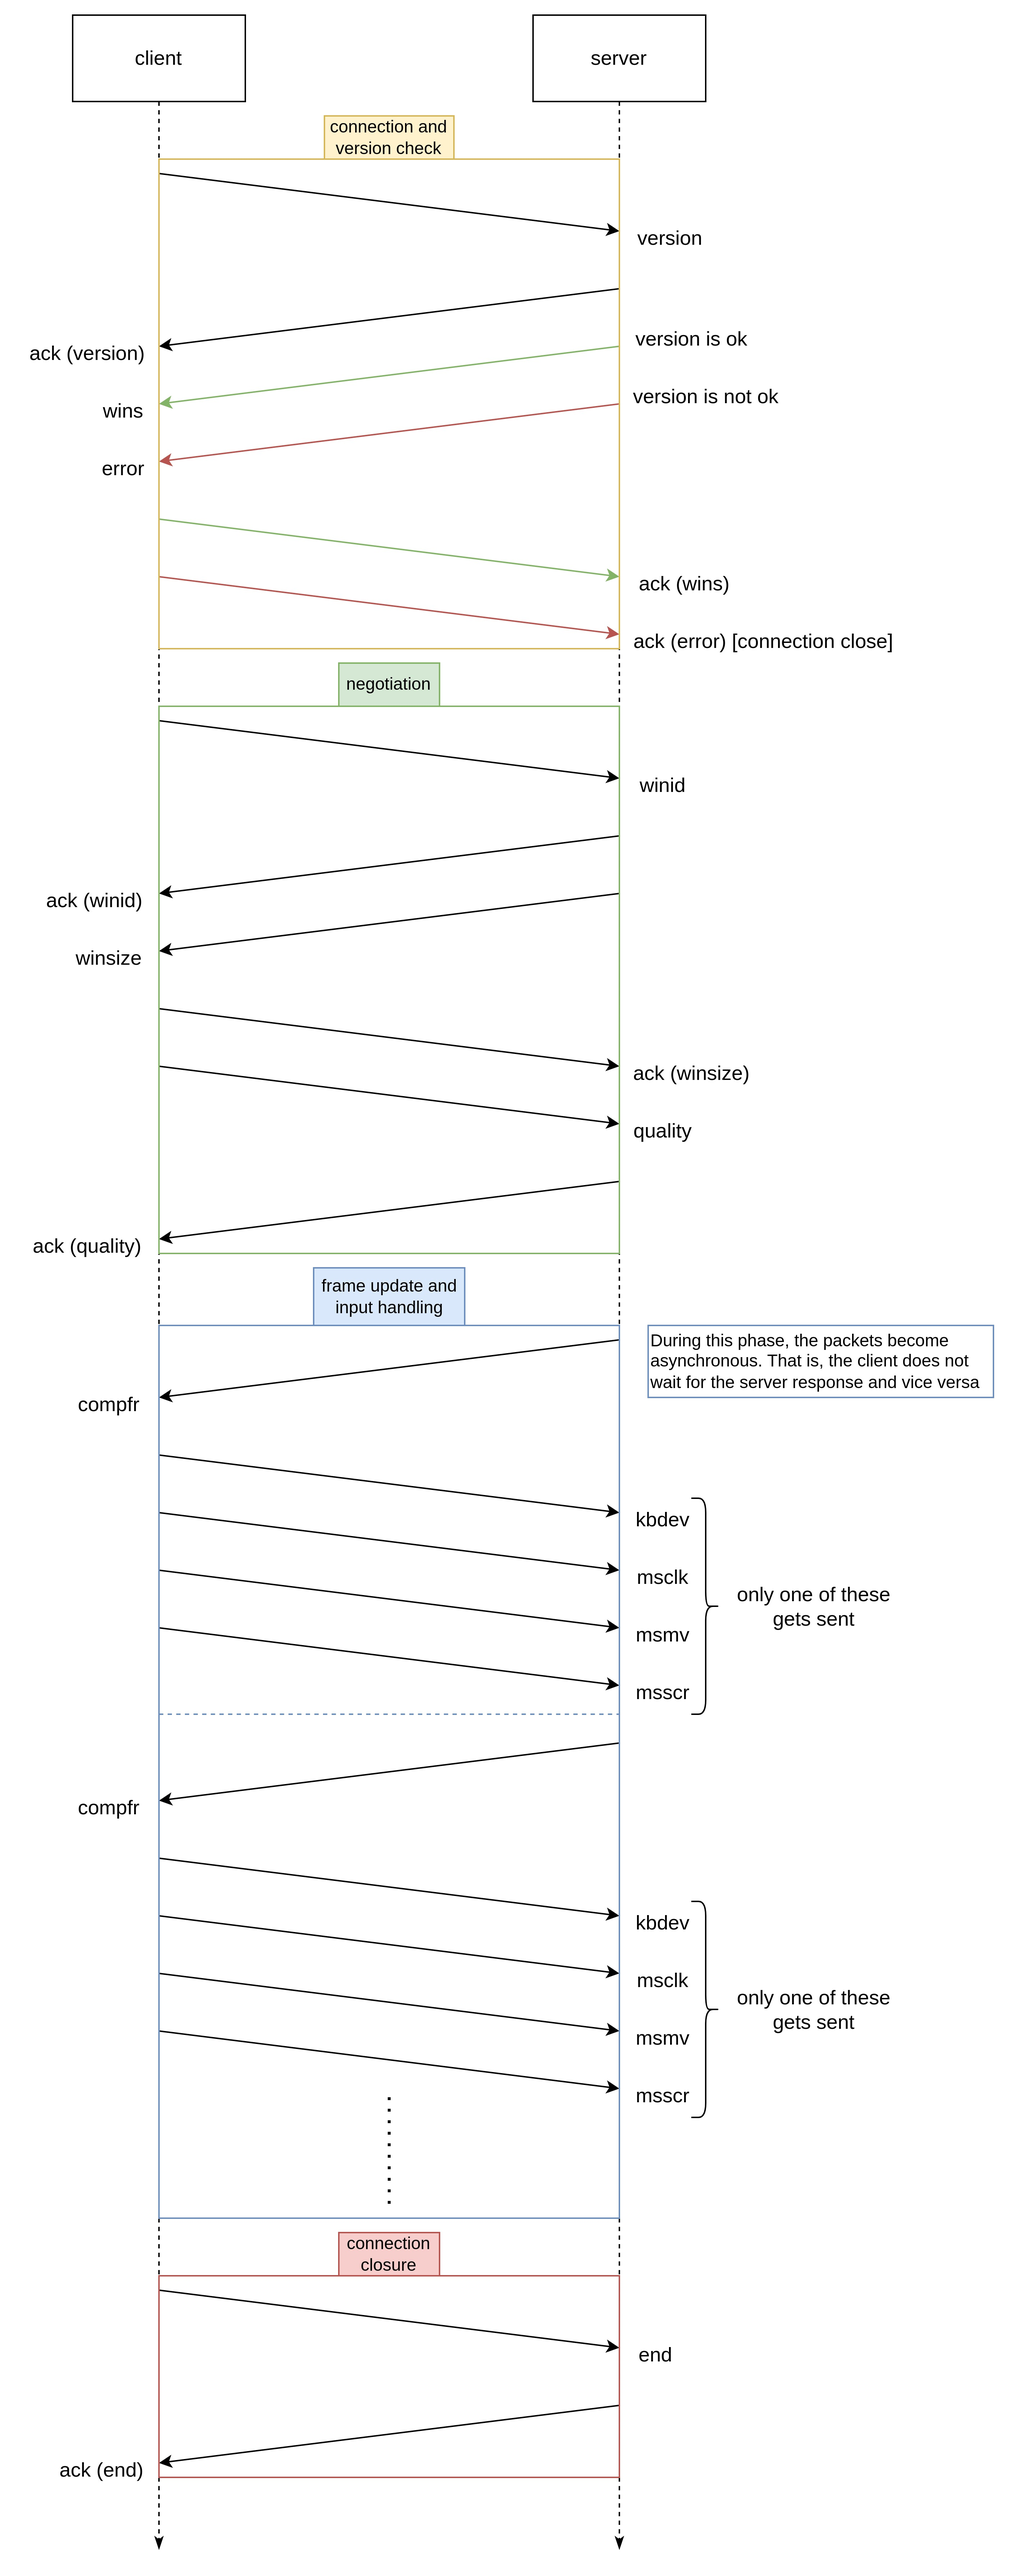
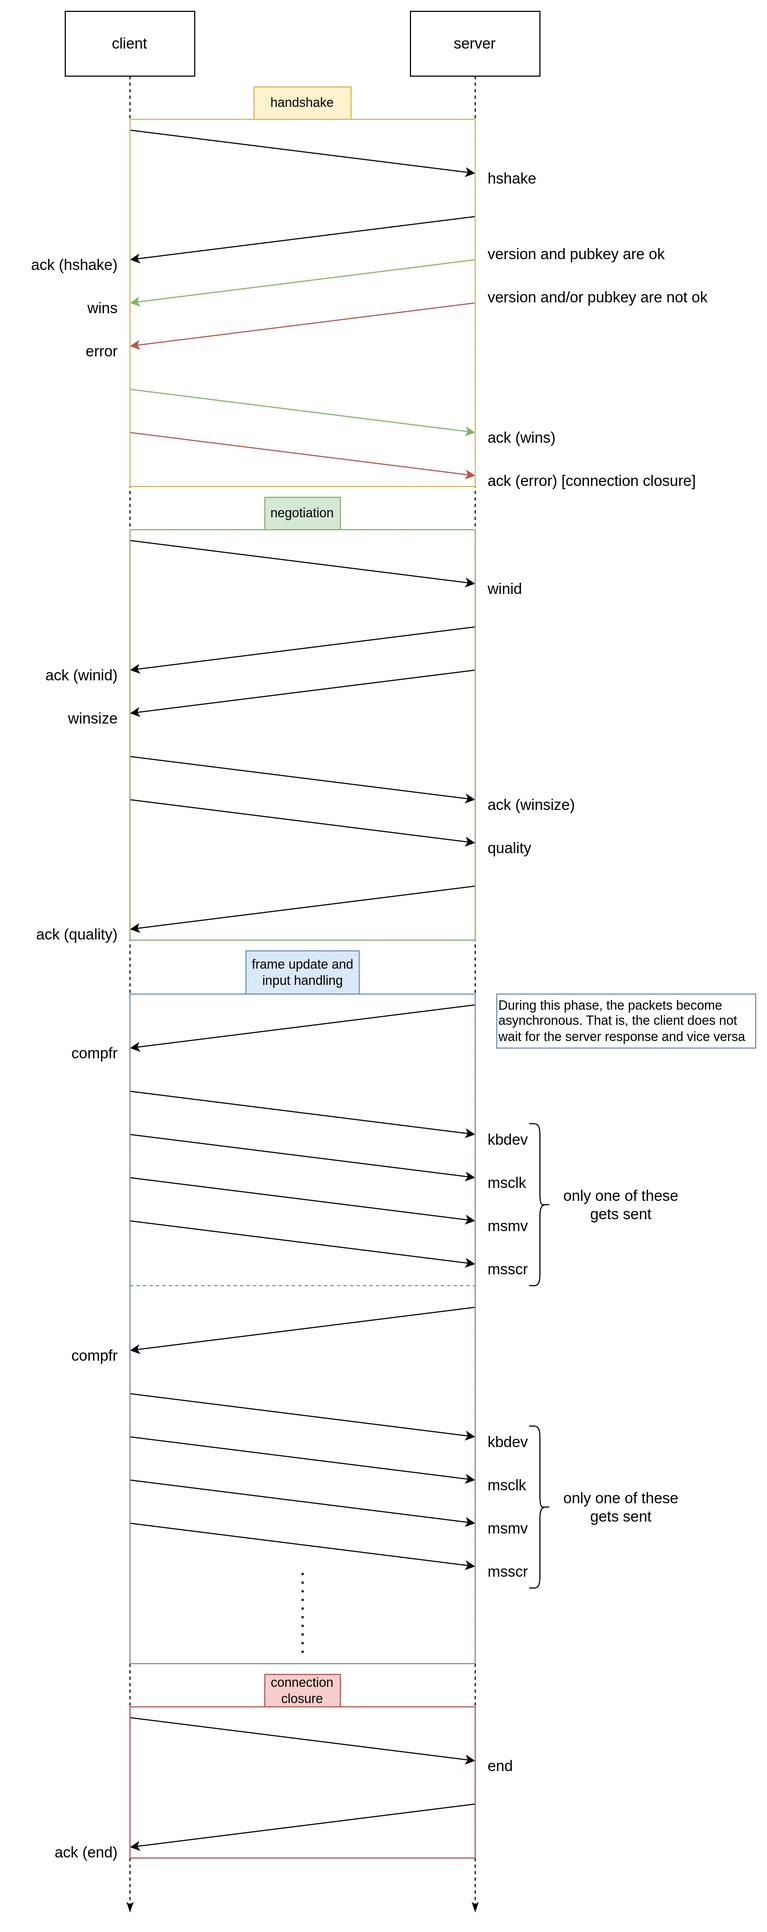
docs(protocol): replace version packet with hshake packet

diff --git a/doc/protocol.md b/doc/protocol.md
@@ -134,10 +134,10 @@ All the strings use the [UTF-8](https://en.wikipedia.org/wiki/UTF-8) encoding.
       <th> description </th>
    </tr>
    <tr>
-      <td> version </td>
+      <td> hshake </td>
       <td> string </td>
       <td> yes </td>
-      <td> the protocol version used by the client </td>
+      <td> the handshake (client's public key + protocol version as text, separated by a space) </td>
    </tr>
    <tr>
       <td> ack </td>
